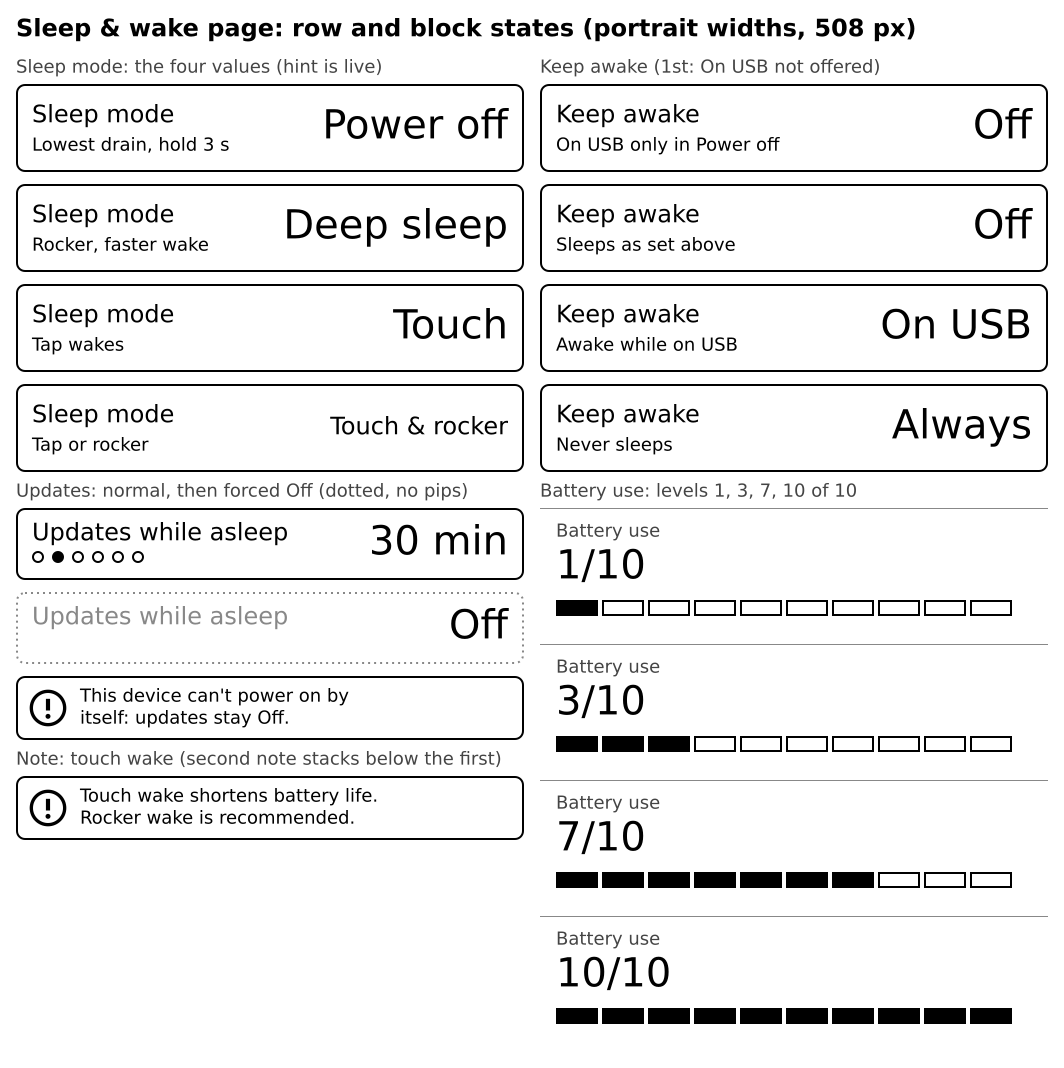
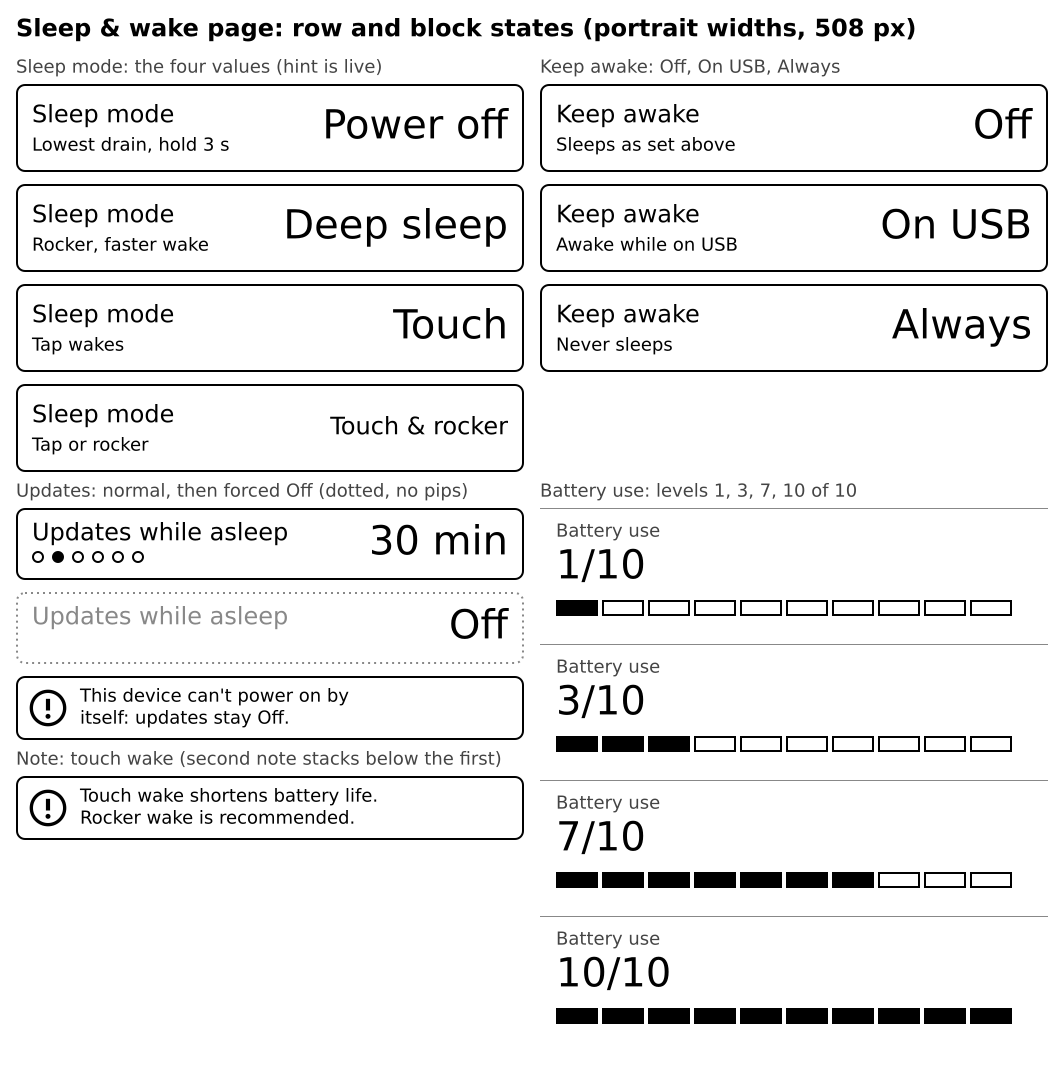
task 085: spec: On USB in every sleep mode

diff --git a/docs/ui/settings.md b/docs/ui/settings.md
@@ -199,7 +199,7 @@ All pages: header (title = category name, chip when the buffer is dirty), no tab
 Portrait: Orientation pip row (16, 68, 508, 72). Below it a static caption F18 DIM at (16, 152) cy 168: `Applied when Settings is left.` Landscape: row (16, 64, 456, 68), caption at (16, 132) cy 148. Mockup shows the changed value (unsaved), focus on the row.
 
 ### 8.2 Sleep & wake (`settings-sleep-*.svg`, revision 10, task 085)
-Replaces Wake mode, Refresh every and Stay awake on USB (old 9.1). Mockups: `settings-sleep-portrait.svg` (Power off, updates 3 h, Keep awake Off, focus on Keep awake), `settings-sleep-landscape.svg` (Touch & rocker, 30 min, On USB not offered, touch note, focus on Updates), `settings-sleep-states.svg` (every value of the mode and Keep awake rows, forced-Off row, notes, four battery use looks (1, 3, 7, 10)). Row types as 3.1; values F40 INK right edge W - 16; labels F24 INK at x = 16 (row-relative); ids w-N as listed.
+Replaces Wake mode, Refresh every and Stay awake on USB (old 9.1). Mockups: `settings-sleep-portrait.svg` (Power off, updates 3 h, Keep awake Off, focus on Keep awake), `settings-sleep-landscape.svg` (Touch & rocker, 30 min, Keep awake Off, touch note, focus on Updates), `settings-sleep-states.svg` (every value of the mode and Keep awake rows, forced-Off row, notes, four battery use looks (1, 3, 7, 10)). Row types as 3.1; values F40 INK right edge W - 16; labels F24 INK at x = 16 (row-relative); ids w-N as listed.
 
 | # | Row (id) | Type | Portrait rect | Landscape rect |
 |---|----------|------|---------------|----------------|
@@ -218,7 +218,7 @@ Vertical check (portrait): 68 + 88 + 12 + 72 + 12 + 88 + 12 + 72 + 12 + 88 = 524
 
 **Row 2, Updates while asleep** (pip row, 6 pips): `Off` / `30 min` / `1 h` / `3 h` / `6 h` / `12 h` (cycle, wraps; 0 = Off). **Forced Off**: when Sleep mode is `Power off` and 084 cannot make the RTC power-on work, the row takes the unavailable look (STYLE.md section 8: 2 px dotted OFF border, label in OFF grey, no pips, value `Off` INK), ignores tap and PUSH, is skipped by the rocker focus, and the note `This device can't power on by` / `itself: updates stay Off.` shows (first slot). The stored value is kept and returns when the mode changes.
 
-**Row 3, Keep awake** (hint row, value F40): `Off` / `On USB` / `Always`. Live hint: Off `Sleeps as set above`; On USB `Awake while on USB`; Always `Never sleeps`. **On USB not offered** (Deep sleep, Touch, Touch & rocker unless the CH9102 RX probe of task 081 proves reliable; always offered in Power off via the power-off fallback): the cycle is `Off` -> `Always` -> `Off`, and while the value is Off the hint reads `On USB only in Power off` (no extra row, no note). If the user changes Sleep mode to one that does not offer it while the value is `On USB`, the buffer value becomes `Off` (the chip shows if that makes the buffer differ). Takes effect when Settings is left.
+**Row 3, Keep awake** (hint row, value F40): `Off` / `On USB` / `Always`. Live hint: Off `Sleeps as set above`; On USB `Awake while on USB`; Always `Never sleeps`. The cycle is `Off` -> `On USB` -> `Always` -> `Off` in every Sleep mode (task 085: the USB probe is reliable); no mode-dependent hint or fallback. Takes effect when Settings is left.
 
 **Row 4, Idle timeout**: unchanged (4 pips, `10 s` / `20 s` / `30 s` / `60 s`). Unused while Keep awake is Always (the row stays editable, no special look).
 
@@ -284,7 +284,6 @@ No on-screen countdown (partial refresh while holding would ghost and cost batte
 
 ### 10. OPEN (revision 10, task 085)
 - OPEN-S9: closed (task 085 notes): the estimate is replaced by the 1..10 Battery use bar; architect to confirm lib/power can give a level 1..10.
-- OPEN-S10: On USB falling back to Off when the mode no longer offers it (8.2 row 3) is a proposal; alternative is to keep the stored value and treat it as Off.
 - OPEN-S11: forced-Off Updates (Power off without a working RTC power-on) shows as a dotted row plus note; confirm 084 can report "RTC power-on unsupported" at settings time.
 
 
